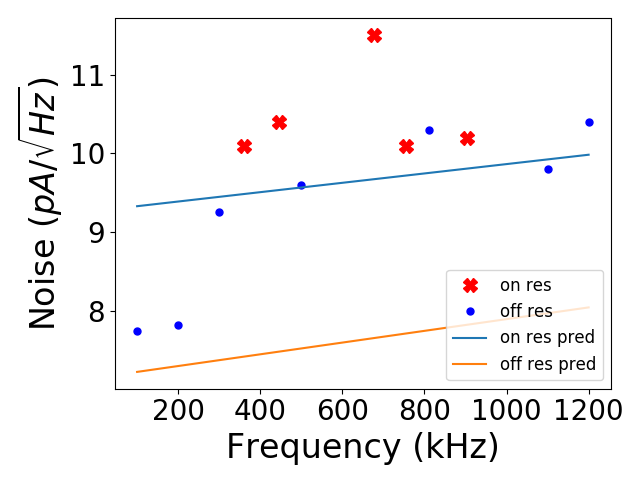
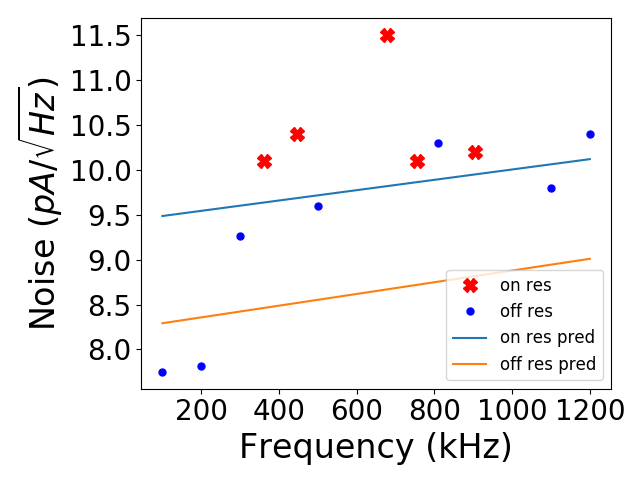
updating squid noise

diff --git a/characterization.tex b/characterization.tex
@@ -838,7 +838,7 @@ With the \ac{SQUID}s off, we measured the open loop noise.
 This was a measure of the noise of the warm electronics referred back to the input of the \ac{SQUID} controller first stage amplifier. 
 The theoretical open loop transfer function was 0.774~nV to 1~\ac{ADC}~count. 
 The measured transfer function was a factor of 1.13 greater than the theoretical. 
-Figure~\ref{fig:dark_electronic_noise} is the measured open loop warm electronics noise for two combs in \ac{ETC} during the wafer~150-01 run as a function of the demodulation frequency. 
+Figure~\ref{fig:dark_electronic_noise} is the measured open loop warm electronics noise, for two combs in \ac{ETC} during the wafer~150-01 run, as a function of the demodulation frequency. 
 The total noise prediction for the warm electronics components was $1.33~nV/\sqrt{Hz}$, determined from the electronic specifications~\cite{Francois2012}. 
 The largest contributors were the first stage amplifier of the \ac{SQUID} controller board, Texas Instruments Op Amp 847 with a noise specification of $0.85~nV/\sqrt{Hz}$, and that amplifier's $20~\Omega$ gain defining resistor Johnson noise, $0.57~nV/\sqrt{Hz}$. 
 The measurement agreed with the prediction at low frequencies and then the signal rolled off, with a -3dB point around 1~MHz, because the first stage amplifier was being operated in the open-loop regime.
@@ -939,7 +939,7 @@ From here on out, we took the intrinsic \ac{SQUID} noise to be 3.5~$pA/\sqrt{Hz}
 
 
 Figure~\ref{fig:johnson_and_squid_noise} is the 4.2~K measured and predicted noise both on and off bolometer resonant frequencies. 
-This data is from a single comb, \ac{SQUID}7, on wafer~150-01. 
+This data is from the same two combs, \ac{SQUID}s 1 and 7, on wafer~150-01 for which the warm electronics noise was measured. 
 Demodulating away from the bolometer resonant frequencies gave just the electronic and \ac{SQUID} noise discussed in Section~\ref{sec:squid_noise}.
 Demodulating at the bolometer resonant frequencies gave a measure of the 4.2~K bolometer Johnson noise in addition to the electronic and \ac{SQUID} noise. 
 The 4.2~K Johnson noise, for a bolometer at its normal resistance of 2~$\Omega$ was $\sim$ 11~$pA/\sqrt{Hz}$.
@@ -957,14 +957,15 @@ It is unlikely we overestimated the resistances because we assumed the bolometer
 \end{figure}
 
 Figure~\ref{fig:770mK_squid_noise} is the 770~mK measured and predicted noise both on and off bolometer resonant frequencies, still with no carrier or nuller biases.
-The data from
+This data is from a single comb, \ac{SQUID}7, on wafer~150-01. 
 The off-resonance noise included the electronic and \ac{SQUID} noise while the on-resonance noise also included the 770~mK bolometer Johnson noise, $\sim$5$pA/\sqrt{Hz}$ for a 2~$\Omega$ bolometer. 
 The two lowest frequency off-resonance noise measurements were near the prediction. 
-At the higher off-resonance demodulation frequencies, however, the measured noise was at the level of the on-resonance prediction, 45\% above the off-resonance prediction.
-Though we expected increased cross-talk given the larger detector resistance in this configuration, it didn't explain the level of excess noise we measured off-resonance. 
+At the higher off-resonance demodulation frequencies, however, the measured noise was at the level of the on-resonance prediction, $\sim$15\% above the off-resonance prediction.
+Though we expected the electrical cross-talk to increase to more than 1\% given the larger detector resistance in this configuration, that was not enough to explain the level of excess noise we measured off-resonance. 
 %COME BACK HERE IF YOU HAVE TIME TO BE SPECIFIC ABOUT HOW MUCH ADDITIONAL CROSS TALK YOU EXPECTED IN THIS CONFIGUATION
-The on-resonance measurements were an average of 15\% above the prediction. 
-Since the electronic and \ac{SQUID} noise prediction was adjusted to agree with the measurement, this slight excess was attributed to Johnson noise but was not understood. 
+The on-resonance noise measurements at 770~mK agree more closely with the prediction than they did at 4.2~K. 
+%Since the electronic and \ac{SQUID} noise prediction was adjusted to agree with the measurement, this slight excess was attributed to Johnson noise but was not understood. 
+The improved agreement at the lower temperature was not understood. 
 
 \begin{figure}[ht!]
 \begin{center}
@@ -974,6 +975,7 @@ Since the electronic and \ac{SQUID} noise prediction was adjusted to agree with 
 \end{center}
 \end{figure}
 
+%UM. WAIT!!! YOU HAVE A PROBLEM. THE OFF-RESONANCE PREDICTION IS LESS THAN THE 4.2 K CASE. BUT IT SHOULD BE THE SAME. UNLESS THE DEMODULATOR WAS AT A DIFFERENT VALUE??
 
 %\textcolor{red}{Why is the on resonance noise higher than predicted? Do you want to find and include the 700mK squid noise data to say we don't know what's going on at 4.2~K, but meas/pred agree more at lower temperatures?}
 
@@ -995,6 +997,7 @@ Since the electronic and \ac{SQUID} noise prediction was adjusted to agree with 
 
 The over-biased noise included the electronic, \ac{SQUID}, and bolometer Johnson noise. 
 The contribution from the electronics was higher than when we measured the Johnson noise in Section~\ref{sec:johnson_noise} because there were carriers and nullers provided in order to electrically over-bias the detectors. 
+Near a bias frequency of 600~kHz, without carriers and nullers on, the electronics noise was $\sim8.5$
 Also, the bolometer Johnson noise was higher because when over-biased, the bolometer temperature was higher. 
 From Equation~\ref{eq:gbar}, the over-biased detector temperature was estimated to be
 \begin{equation}
